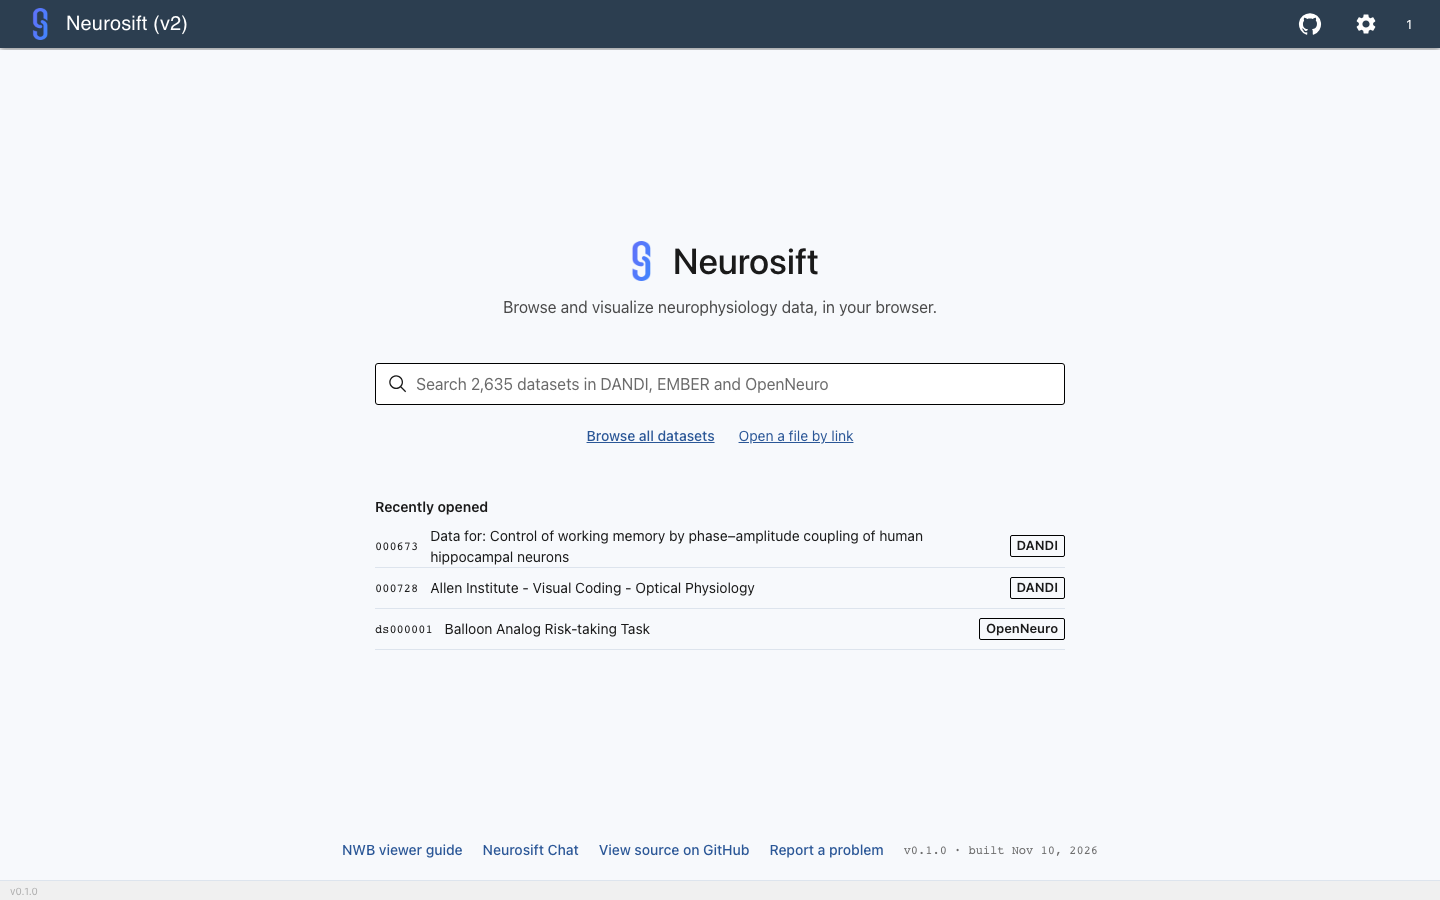
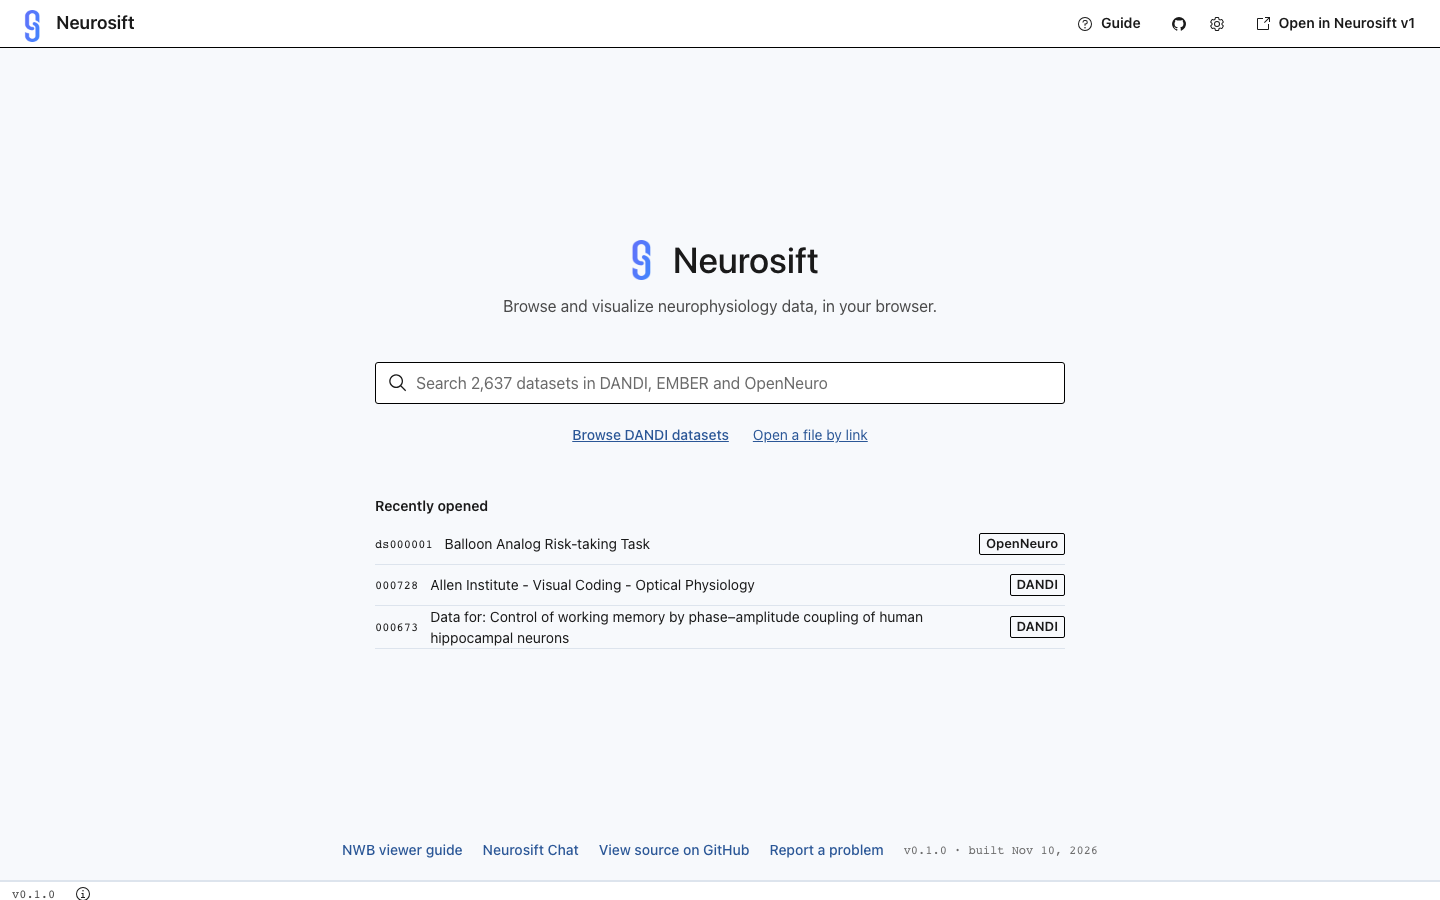
Browse starts on DANDI, and Newest asks DANDI for the newest Dandisets (#144)

diff --git a/src/pages/HomePage/HomePage.tsx b/src/pages/HomePage/HomePage.tsx
@@ -23,6 +23,8 @@ const PATHS = {
   OpenNeuro: "openneuro-dataset",
 };
 const base = import.meta.env.BASE_URL;
+// Most visitors come for DANDI; the catalog's Archive filter adds EMBER and OpenNeuro.
+const BROWSE = "/search?archive=dandi&sort=newest";
 
 /** The live number of datasets across the three archives, once all have answered. */
 function useDatasetCount() {
@@ -86,7 +88,7 @@ const HomePage: FunctionComponent<HomePageProps> = () => {
     navigate(
       text.trim()
         ? `/search?${new URLSearchParams({ q: text.trim() })}`
-        : "/search?sort=newest",
+        : BROWSE,
     );
   };
 
@@ -151,7 +153,7 @@ const HomePage: FunctionComponent<HomePageProps> = () => {
           </form>
         ) : (
           <p className="home-links">
-            <a href={`${base}search?sort=newest`}>Browse all datasets</a>
+            <a href={`${base}${BROWSE.slice(1)}`}>Browse DANDI datasets</a>
             <button
               type="button"
               className="home-link-button"

diff --git a/src/pages/SearchPage/archiveSources.ts b/src/pages/SearchPage/archiveSources.ts
@@ -74,6 +74,10 @@ export function openNeuroItem(d: OpenNeuroDataset): CatalogItem {
   };
 }
 
+/** DANDI's API ignores ordering=-created; Dandiset IDs rise with creation, so -id is newest first. */
+export const dandiOrdering = (order: Order) =>
+  order === "newest" ? "-id" : "-modified";
+
 /** DANDI or EMBER text search, a page of 25 at a time. */
 export function dandiSearch(
   archive: "DANDI" | "EMBER",
@@ -93,7 +97,7 @@ export function dandiSearch(
           embargoed: apiKeyProvided,
           pageSize: PAGE,
           page,
-          ordering: order === "newest" ? "-created" : "-modified",
+          ordering: dandiOrdering(order),
         }),
         { headers },
       );

diff --git a/src/pages/SearchPage/archiveSources.test.ts b/src/pages/SearchPage/archiveSources.test.ts
@@ -1,0 +1,13 @@
+import { describe, expect, it } from "vitest";
+import { dandiOrdering } from "./archiveSources";
+
+describe("dandiOrdering", () => {
+  it("asks DANDI for the newest Dandisets by ID", () => {
+    expect(dandiOrdering("newest")).toBe("-id");
+  });
+
+  it("keeps recently modified and best match on -modified", () => {
+    expect(dandiOrdering("modified")).toBe("-modified");
+    expect(dandiOrdering("best")).toBe("-modified");
+  });
+});

diff --git a/src/pages/util/dandisetsSearchUrl.ts b/src/pages/util/dandisetsSearchUrl.ts
@@ -7,7 +7,7 @@ export const buildDandisetsSearchUrl = (o: {
   embargoed: boolean;
   pageSize?: number;
   page?: number;
-  ordering?: "-modified" | "-created";
+  ordering?: "-modified" | "-id";
 }): string => {
   const params = new URLSearchParams({
     page: String(o.page ?? 1),
